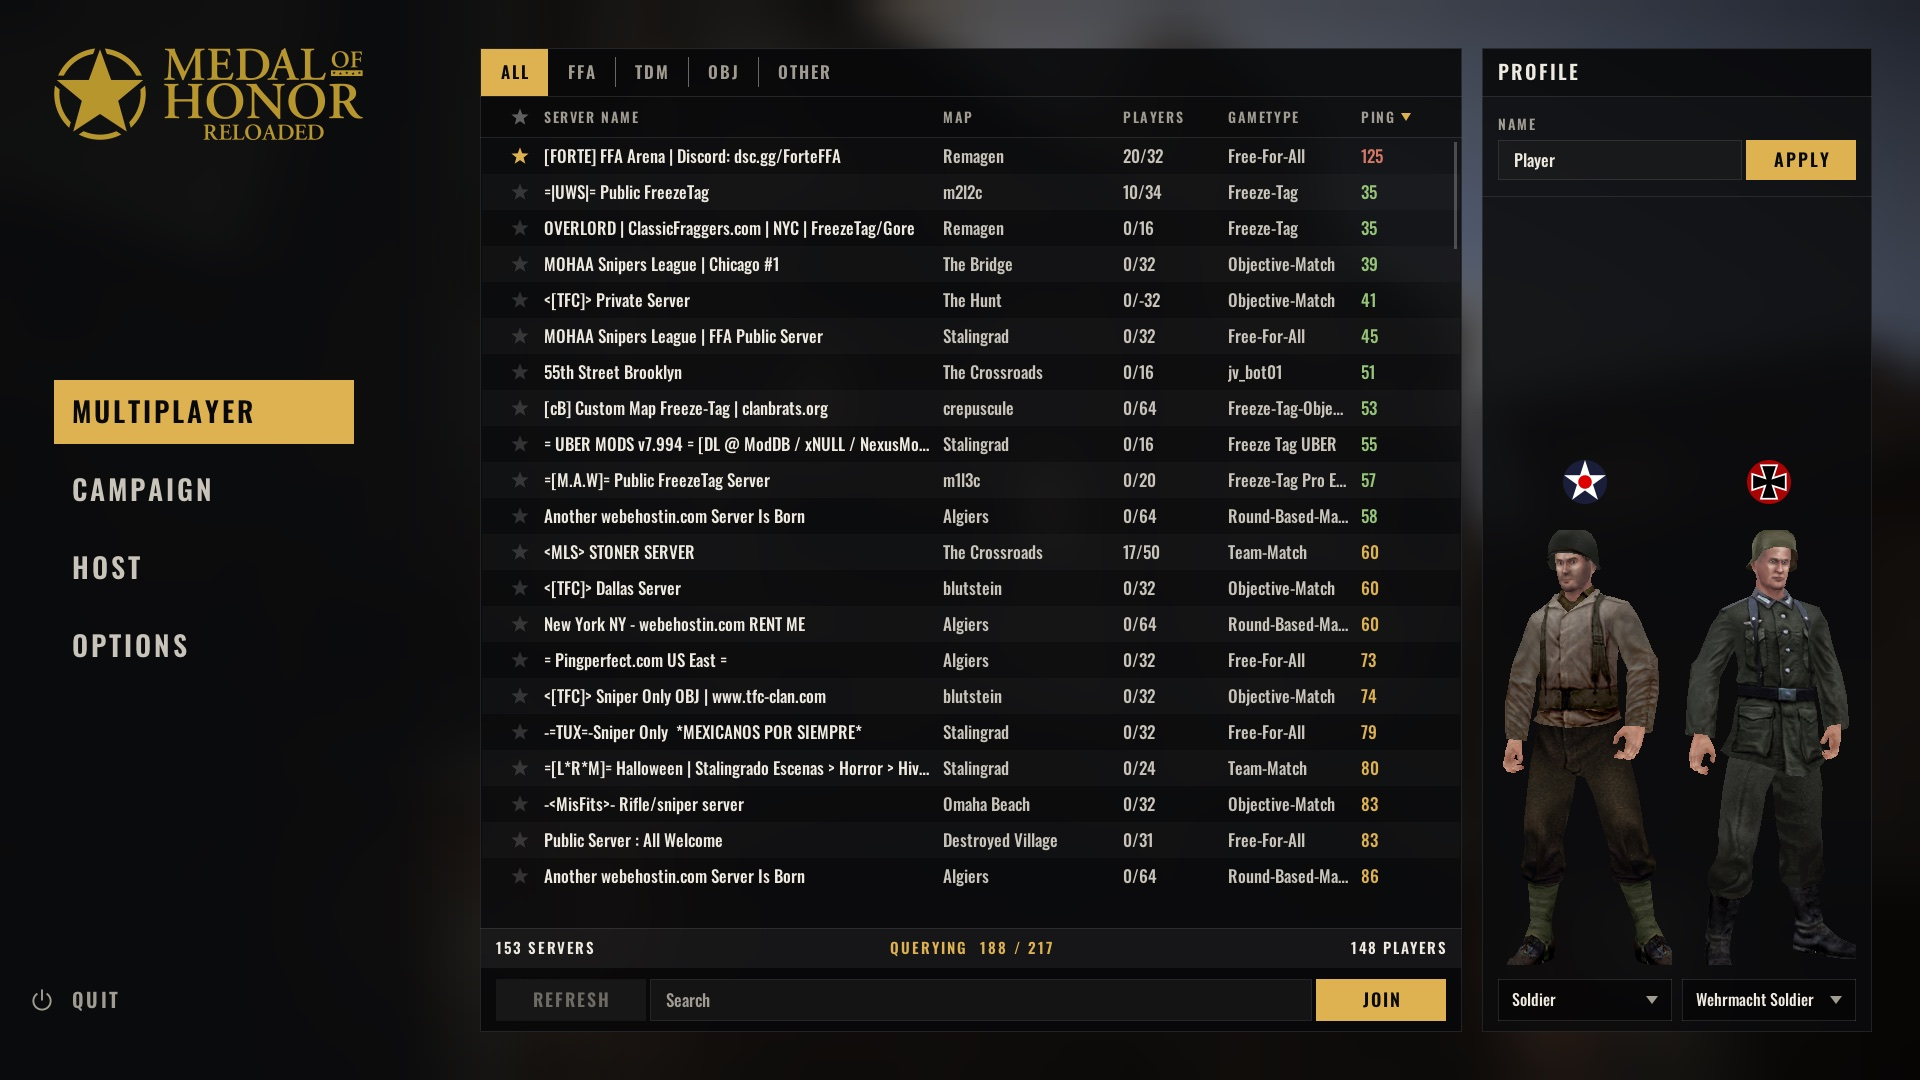
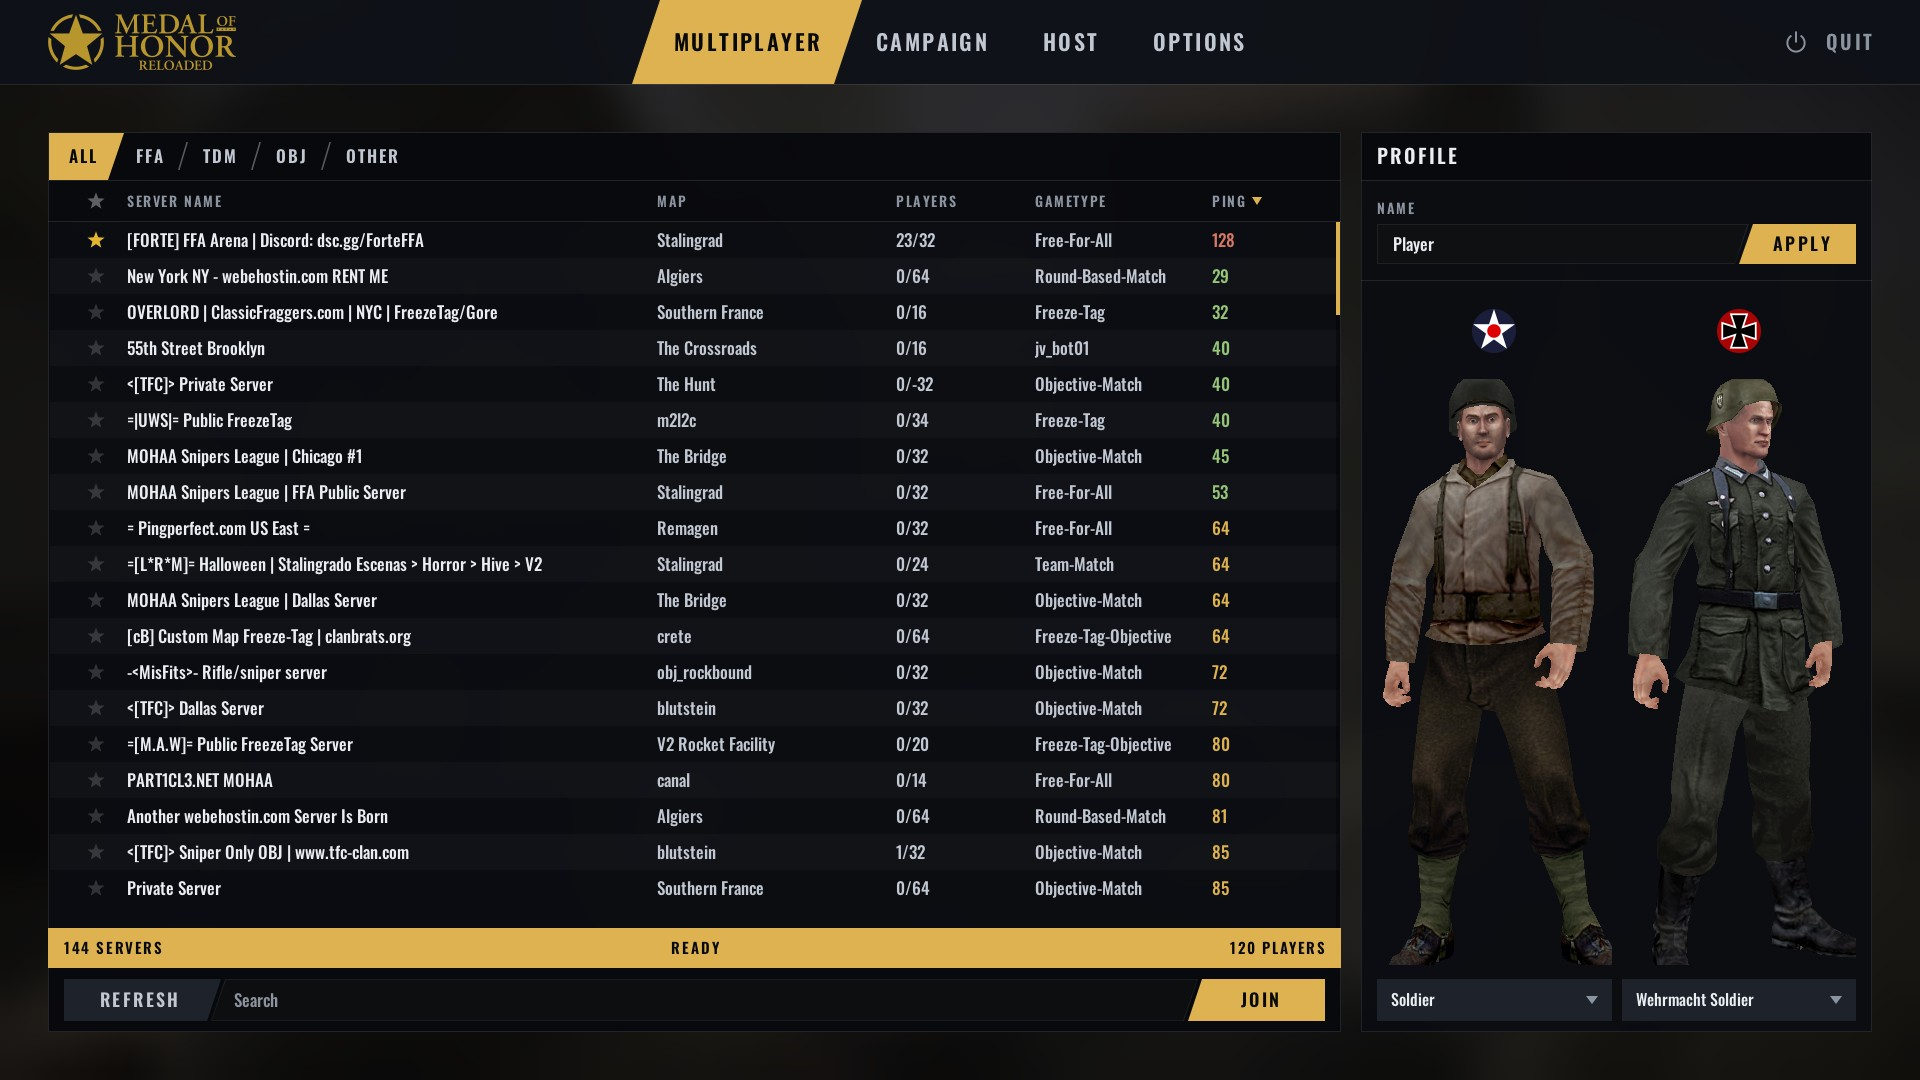
Pictures from the Vulkan builds: every graphics setting at its highest, a Thompson
Before is the vulkan branch (stock menus and HUD), after vulkan-reloaded af51140c, both
on Linux with an AMD Radeon 780M at 1920x1080: Enhanced Rendering (TAA, AO Ultra, motion
blur and depth of field High, the HDR look), textures High, trilinear with 16x anisotropic,
full shadows, 64 dynamic lights, the most detailed models, curves and terrain. Flat Model
Lighting stays on (r_fastentlight 1): off makes players and guns much darker. The match on
The Bridge with a Thompson picked and held. The texts follow Reloaded's new top-bar main
menu, its separate team and weapon pages and its tiled Esc menu.

Changed region(s): [[0.0, 0.0, 1.0, 0.9472], [0.0, 0.0, 0.2188, 0.1833]]

diff --git a/site/index.html b/site/index.html
@@ -58,39 +58,41 @@ footer a { color: var(--muted); }
 <body>
 <header>
   <h1>MoHAA Reloaded: before and after</h1>
-  <p>The same game, the same renderer (native Metal on Apple Silicon) and, where it can be, the same view. On the left
+  <p>The same game, the same renderer (native Vulkan, on Linux), every graphics setting at its highest, and, where it can be, the same view. On the left
     the original OpenMoHAA menus and HUD, on the right MoHAA Reloaded's. Drag across a picture to compare.</p>
   <div class="legend"><span class="b">Before: OpenMoHAA, stock menus and HUD</span><span class="a">After: MoHAA Reloaded</span></div>
   <nav id="toc"></nav>
 </header>
 <main id="list"></main>
 <footer>
-  <p>Screenshots at 1920&times;1080 from the macOS builds on an Apple M4, the match pictures from a bot match on The Bridge (Objective). Both sides light players and guns flat (<code>r_fastentlight 1</code>, Reloaded's default).
-    Before: <a href="https://github.com/fortemoh/MoHAA-Reloaded">OpenMoHAA for macOS</a> with the stock menus and HUD.
-    After: MoHAA Reloaded, in development. Medal of Honor: Allied Assault is &copy; Electronic Arts; its art appears here
+  <p>Screenshots at 1920&times;1080 from the Vulkan builds on Linux (AMD Radeon 780M), the match pictures from a bot match on The Bridge (Objective), holding a Thompson.
+    Both sides run every graphics setting at its highest: Enhanced Rendering with anti-aliasing (TAA), ambient occlusion at Ultra, motion blur and depth of field at High and the HDR look; textures High, trilinear filtering with 16x anisotropic, full shadows, 64 dynamic lights, the most detailed models, curves and terrain, and every effect.
+    The one exception: players and guns are lit flat (Flat Model Lighting on, <code>r_fastentlight 1</code>, Reloaded's default), because off makes them much darker.
+    Before: <a href="https://github.com/fortemoh/MoHAA-Reloaded/tree/vulkan">the <code>vulkan</code> branch</a>, OpenMoHAA with the stock menus and HUD.
+    After: MoHAA Reloaded's <code>vulkan-reloaded</code> branch (af51140c), in development. Medal of Honor: Allied Assault is &copy; Electronic Arts; its art appears here
     only as screenshots. OpenMoHAA is GPL-2.0.</p>
 </footer>
 <script>
-const V = "4"; // bumped when pictures change, so browsers fetch them again
+const V = "5"; // bumped when pictures change, so browsers fetch them again
 const PAIRS = [
   { id: "main", short: "Main menu", title: "Main menu", before: "stockmenu_main.jpg", after: "rlmenu_main.jpg",
-    text: "The stock main menu is a room: you hover over objects to find the pages. Reloaded opens straight on the server list, with the pages down the left and your name and soldier on the right." },
+    text: "The stock main menu is a room: you hover over objects to find the pages. Reloaded opens straight on the server list, with the pages along the top (Multiplayer, Campaign, Host, Options) and your name and both soldiers on the right." },
   { id: "servers", short: "Server browser", title: "Server browser", before: "stockmenu2_servers.jpg", after: "rlmenu_main.jpg",
     text: "Stock: Multiplayer, Join Internet Game, Browse Internet Servers, then a plain list. Reloaded: the same live list is the home page, with game-type filters, a search box and favourites." },
   { id: "options", short: "Options", title: "Options", before: "stockmenu_options.jpg", after: "rlmenu_hud.jpg",
-    text: "Stock: a desk of radios, each one a separate page. Reloaded: one page with five tabs (Controls, Video, Audio, Gameplay, HUD). The HUD tab is new: HUD style (CS:GO, CS2 or Classic), font, size, colour, crosshair and hit sound, with a live crosshair preview." },
+    text: "Stock: a desk of radios, each one a separate page. Reloaded: one page with five tabs (Controls, Video, Audio, Gameplay, HUD). The HUD tab is new: HUD style (CS:GO, CS2 or Classic), font, scale, radar, accent colour and the crosshair, with a life-size crosshair preview." },
   { id: "controls", short: "Controls", title: "Controls", before: "stockmenu_controls.jpg", after: "rlmenu_controls.jpg",
     text: "Every key on one screen, grouped by what it does, with mouse sensitivity at the top." },
   { id: "video", short: "Video", title: "Video", before: "stockmenu2_video.jpg", after: "rlmenu_video.jpg",
-    text: "Display mode, resolution, frame cap, filtering and effects in one place, each with a one-line explanation." },
+    text: "Display, lighting, picture, filtering and effects in one place, each with a one-line explanation. Here every setting is at its highest (Enhanced Rendering's rows are further down the page)." },
   { id: "audio", short: "Audio", title: "Audio", before: "stockmenu2_audio.jpg", after: "rlmenu_audio.jpg",
-    text: "Volume, music, speakers or headphones, and sound quality." },
+    text: "Volume, music, soundtrack, speakers or headphones, sound quality and the hit sound." },
   { id: "load", short: "Loading", title: "Loading screen", before: "obj_stock_load.jpg", after: "obj_rl_load.jpg",
     text: "The map's picture, name and game type with a progress bar. There's no CONTINUE button: the match starts as soon as the map is loaded." },
   { id: "team", short: "Team pick", title: "Picking a team", before: "obj_stock_team.jpg", after: "obj_rl_team.jpg",
-    text: "Stock asks for the team and then the weapon in two menus. Reloaded does both on one page, with your soldier beside it and the round's time left." },
+    text: "Stock: a room with two doors, Allies, Axis or Auto Select, and each side's objective. Reloaded: both teams side by side, each with its soldier (the arrows pick the model), how many players and bots it has and who they are, with Spectate and Auto Select below." },
   { id: "weapon", short: "Weapon pick", title: "Picking a weapon", before: "obj_stock_weapon.jpg", after: "obj_rl_weapon.jpg",
-    text: "Each weapon by name and role (rifle, sniper, submachine gun, machine gun, anti-tank, shotgun), and the soldier's look below." },
+    text: "Stock: rows of weapon pictures, the role named above them. Reloaded: six cards, each weapon by name and role (rifle, sniper, submachine gun, machine gun, anti-tank, shotgun), the round's time left, and your soldier beside them. The Thompson is picked in both." },
   { id: "hud", short: "HUD (CS:GO)", title: "HUD, CS:GO style", before: "obj_stock_hud.jpg", after: "obj_rl_hud.jpg",
     text: "Health and ammo in the bottom corners, the weapons you carry on the right, a radar with your teammates, and at the top the round's time left, the score and a card for every player, greyed out once they're dead. The kill feed is at the top right. The same spot on the map in both." },
   { id: "hudcs2", short: "HUD (CS2)", title: "HUD, CS2 style", before: "obj_stock_hud.jpg", after: "obj_rl_hudcs2.jpg",
@@ -100,7 +102,7 @@ const PAIRS = [
   { id: "scores", short: "Scoreboard", title: "Scoreboard", before: "obj_stock_scores.jpg", after: "obj_rl_scores.jpg",
     text: "Both teams and every player's kills. Reloaded's puts each team's score and how many are still alive up front, shows the time left, greys out the dead and highlights your own row." },
   { id: "esc", short: "Esc menu", title: "In-game menu (Esc)", before: "obj_stock_esc.jpg", after: "obj_rl_esc.jpg",
-    text: "The map, game type and time left, then resume, main menu, team and weapon, options, spectate, disconnect and quit, over a blurred view of the game." },
+    text: "Stock: a list of buttons. Reloaded: the map, game type and time left, then tiles for team, weapon, a vote, options, spectate and disconnect, Resume below them and main menu and quit underneath, over a blurred view of the game." },
 ];
 const list = document.getElementById("list"), toc = document.getElementById("toc");
 function slider(p) {
